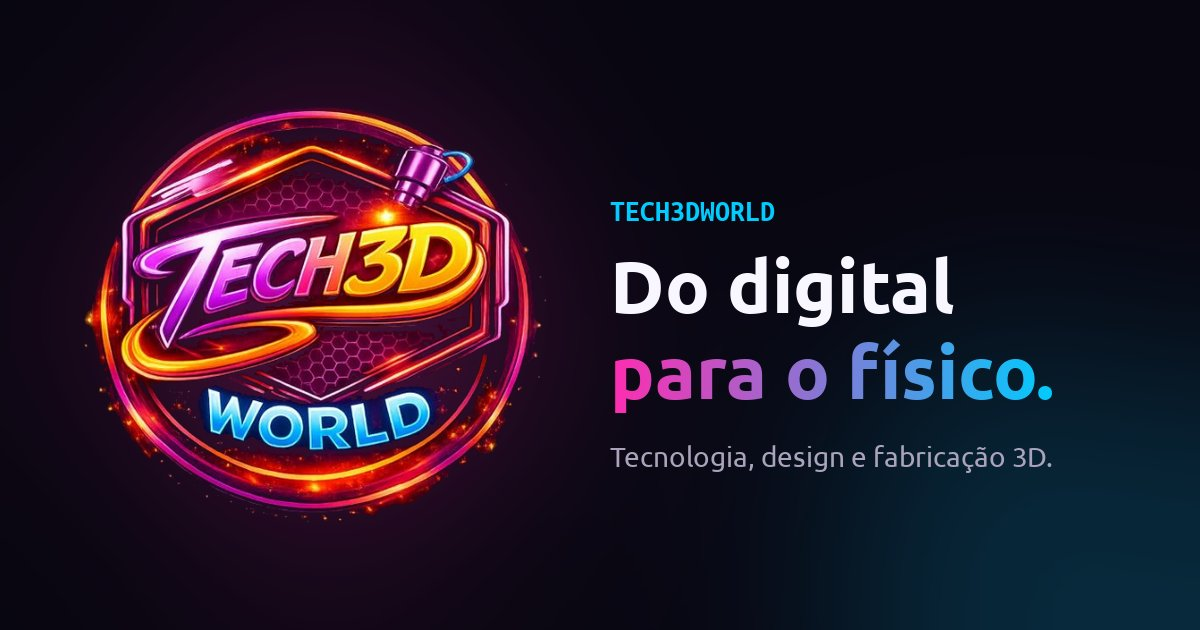
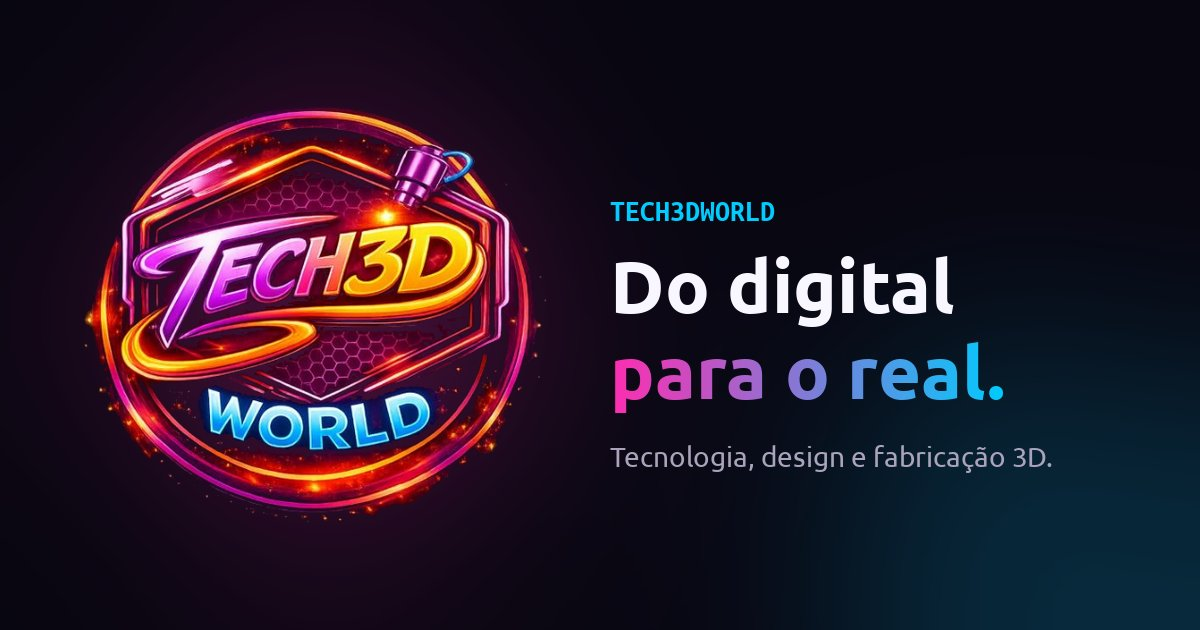
chore: título de compartilhamento 'para o real' e remove ícones placeholder do v0

Changed region(s): [[0.7092, 0.5429, 0.8942, 0.6333]]

diff --git a/app/layout.tsx b/app/layout.tsx
@@ -9,7 +9,7 @@ import './globals.css'
 const inter = Inter({ subsets: ['latin'], display: 'swap', variable: '--font-inter' })
 const spaceMono = Space_Mono({ subsets: ['latin'], weight: ['400', '700'], display: 'swap', variable: '--font-space-mono' })
 
-const shareTitle = 'Tech3dworld — Do digital para o físico'
+const shareTitle = 'Tech3dworld — Do digital para o real'
 const description = 'Um laboratório criativo na interseção entre tecnologia, design e fabricação 3D.'
 const ogImage = { url: '/og.jpg', width: 1200, height: 630, alt: shareTitle }
 
